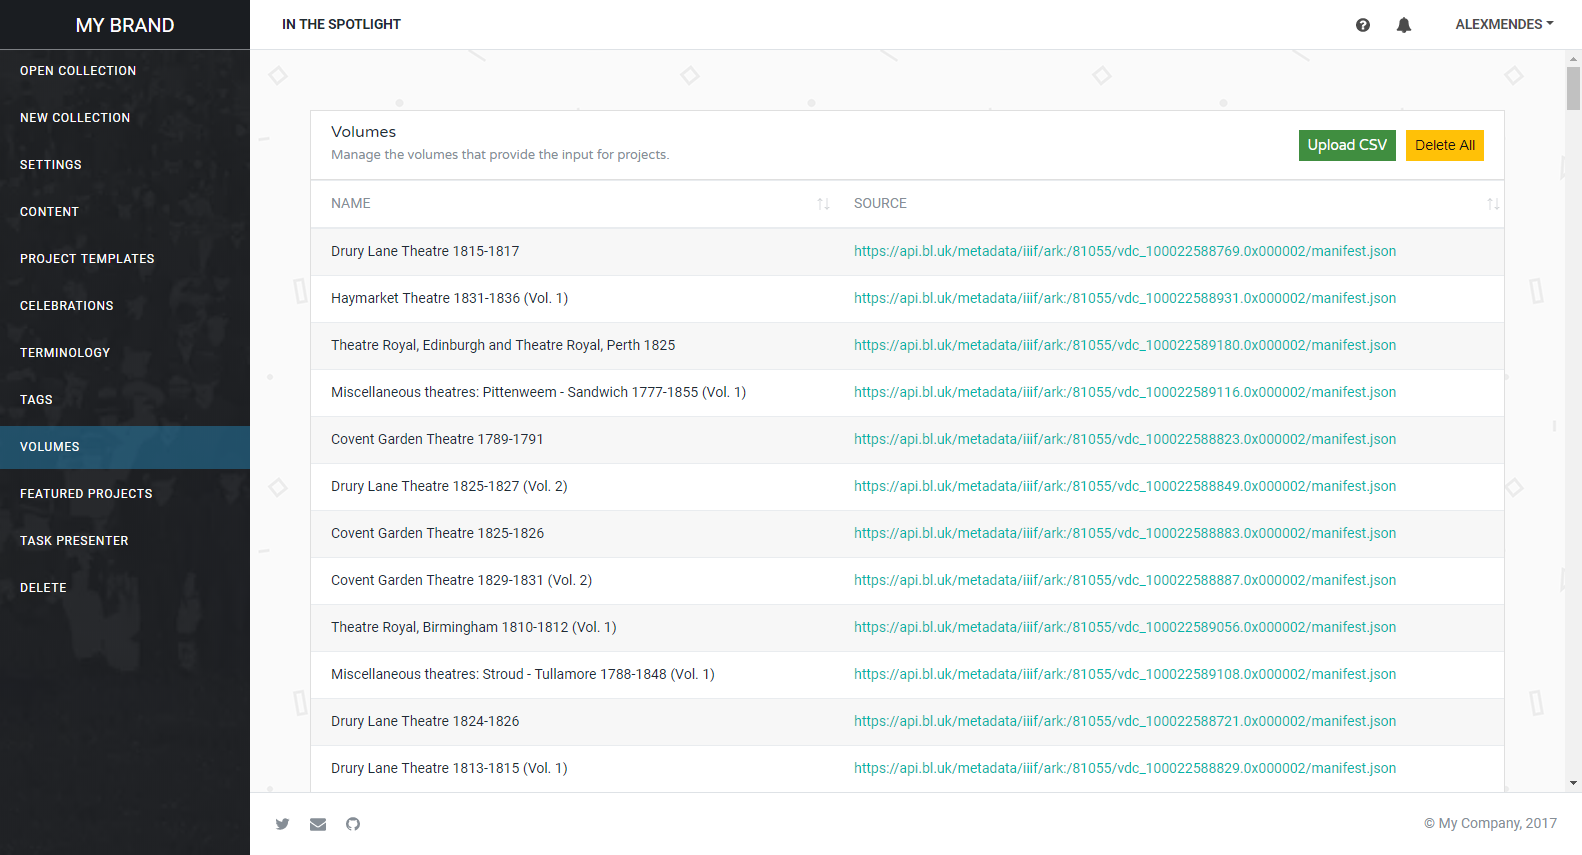
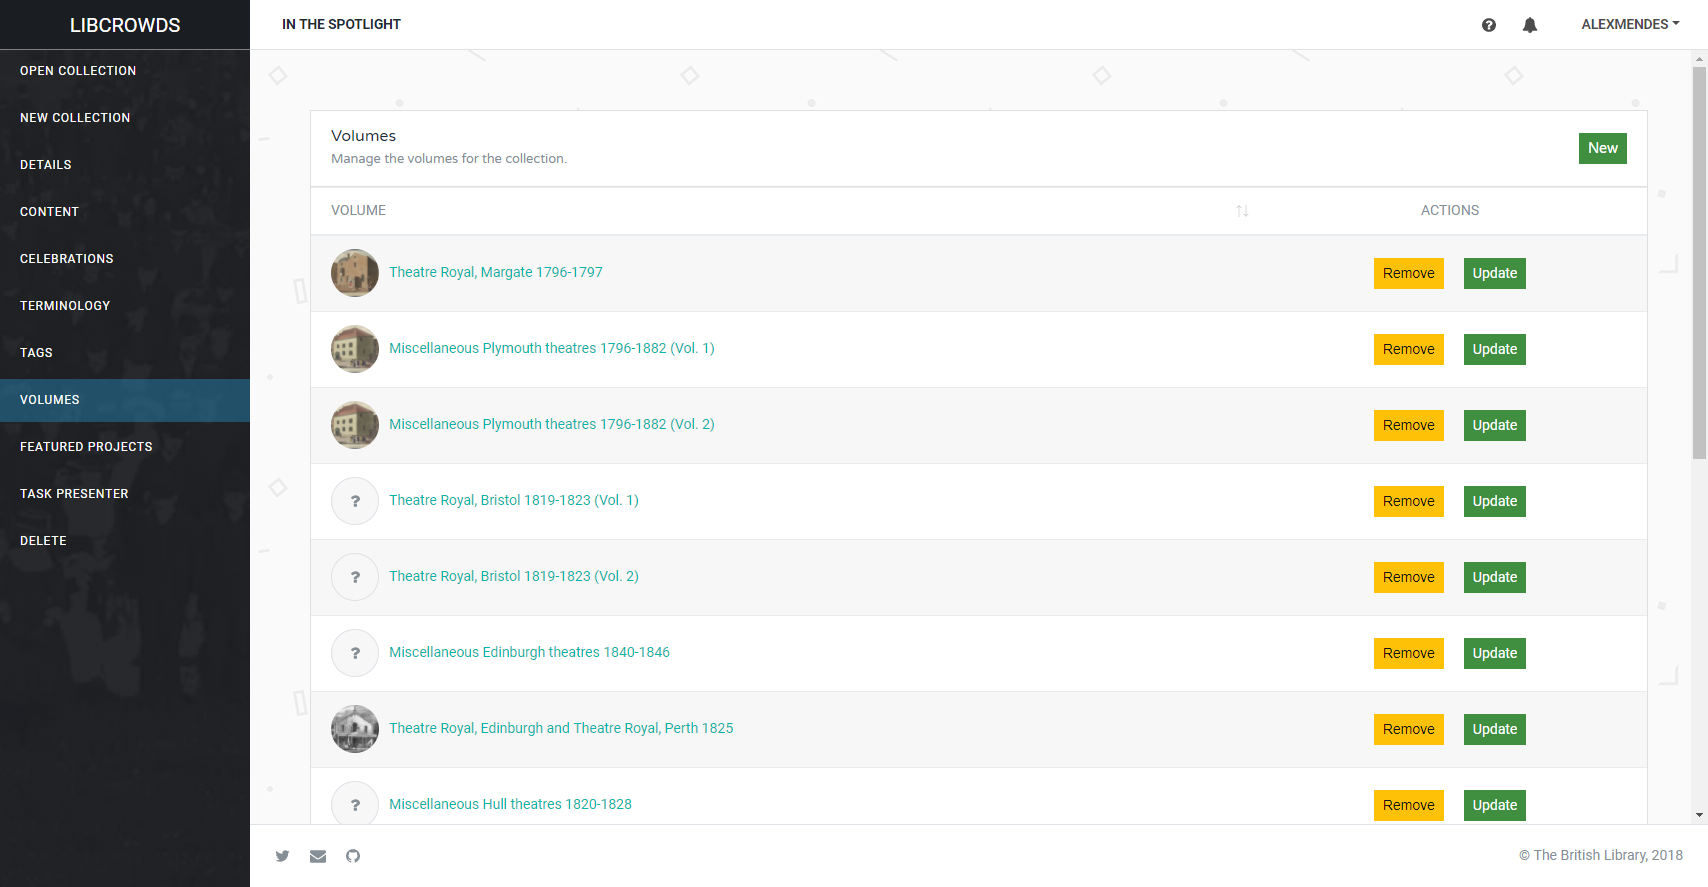
Update volume docs

diff --git a/docs/collections/volumes.md b/docs/collections/volumes.md
@@ -1,7 +1,9 @@
-Each volume is tracked as a name against a URI that will later provide the
-resources for a project, or multiple projects. Keeping a list of all volumes
-that will be used to generate the projects for a collection microsite helps
-with later project generation and the aggregation of results.
+Volumes provide the input sources used to build new projects (e.g. a
+IIIF manifest URI). They are also used to group related projects
+within a collection, helping with further functionality such as the
+aggregation of results data.
+
+The available volumes for a collection are managed via this section.
 
 ??? info "Administrator rights required"
 
@@ -18,31 +20,29 @@ with later project generation and the aggregation of results.
     4. Locate the collection in the table and click **Open**.
     5. Select **Volumes** from dashboard menu on the left-hand side.
 
-![A screenshot of the collection volumes admin page](/assets/img/admin-collection-volumes.png?raw=true)
-<br><small>*A screenshot of the collection volumes admin page*</small>
+![A screenshot of a collection's volumes admin page](/assets/img/admin-collection-volumes.png?raw=true)
+<br><small>*A screenshot of a collection's volumes admin page*</small>
 
-## Updating the list of volumes
+## Adding a volume
 
-The list of volumes can be updated in bulk, via CSV by clicking the
-**Upload CSV** button at the top of the page.
+To add a new volume click the **New** button at the top of the volumes table.
+This will display the form shown in the screenshot below.
 
-The form that is displayed will expain which columns are required in the
-CSV file for the task presenter type that is currently set for the collection.
+![A screenshot of the new volume page](/assets/img/admin-collection-volumes-new.png?raw=true)
+<br><small>*A screenshot of the new volume page*</small>
 
-??? tip "Updating a collection's task presenter"
-    See the [Collection Details](/collection/details.md) guide to find out
-    how to change the collection's task presenter.
+Volumes are added using a name and an input source, both of which must be
+unique (i.e. they don't already exist in the volumes listed for the
+collection).
 
-To upload a new list of volumes select your CSV file and click **Submit**.
+The format of the input source depends on the type of task presenter chosen
+for the collection.
 
-Following is an explanation of the details required for each type of task
-presenter.
+#### IIIF Annotation
 
-### IIIF Annotation projects
-
-IIIF manifests provide the input for IIIF annotation projects. These manifests
-contain the metadata required to display content served via the IIIF APIs,
-such as a set of images.
+For collections using the IIIF Annotation task presenter, the input source
+should be a IIIF manifest. These manifests contain the metadata required to
+display content served via the IIIF APIs.
 
 A manifest URI should look like this:
 
@@ -54,13 +54,10 @@ A manifest URI should look like this:
 http://api.bl.uk/metadata/iiif/ark:/81055/vdc_100022588857.0x000002/manifest.json
 ```
 
-Each row in the CSV file should therefore contain a name in the first column
-and a IIIF manifest URI in the second.
+#### Z39.50
 
-### Z39.50 projects
-
-The images for Z39.50 projects are loaded from
-[Flickr](https://www.flickr.com), which provides 1TB of image storage for free.
+For collections using the Z39.50 task presenter, the input source should be
+the URI of a Flickr album.
 
 A Flickr album URI should look like this:
 
@@ -72,5 +69,30 @@ A Flickr album URI should look like this:
 {scheme}://www.flickr.com/photos/132066275@N04/albums/72157653533516031
 ```
 
-Each row in the CSV file should therefore contain a name in the first column
-and a Flickr album URI in the second.
+## Updating a volume
+
+To update a volume, locate it in the table and click **Update**
+
+![A screenshot of the update volume page](/assets/img/admin-collection-volumes-update.png?raw=true)
+<br><small>*A screenshot of the update volume page*</small>
+
+A form displaying two tabs will be displayed, one to update the name and
+source and one to add a thumbnail image.
+
+The thumbnail image will be used for all projects subsequently generated
+using the volume.
+
+For more details about the name and source see the
+[Adding a volume](/collections/volumes#adding-a-volume) section above.
+
+
+## Deleting a volume
+
+In the rare case that you want to remove a volume, locate it in the table
+and click **Delete**.
+
+Note that deleting a volume will affect the aggregation of results for any
+projects that have already been built using that volume.
+
+!!! warning
+    Deletion is final, there is no undo.

diff --git a/docs/projects/volumes.md b/docs/projects/volumes.md
@@ -1,7 +1,7 @@
 Volumes are used to group projects within a collection. The volume that a
 project belongs to will usually be set at project creation. However, if it is
 later decided that a project's volume should be changed this can be done by
-locating it in the table and clicking 'Select'.
+locating it in the table and clicking **Select**.
 
 ??? info "Admin rights are required to access this page"
 
